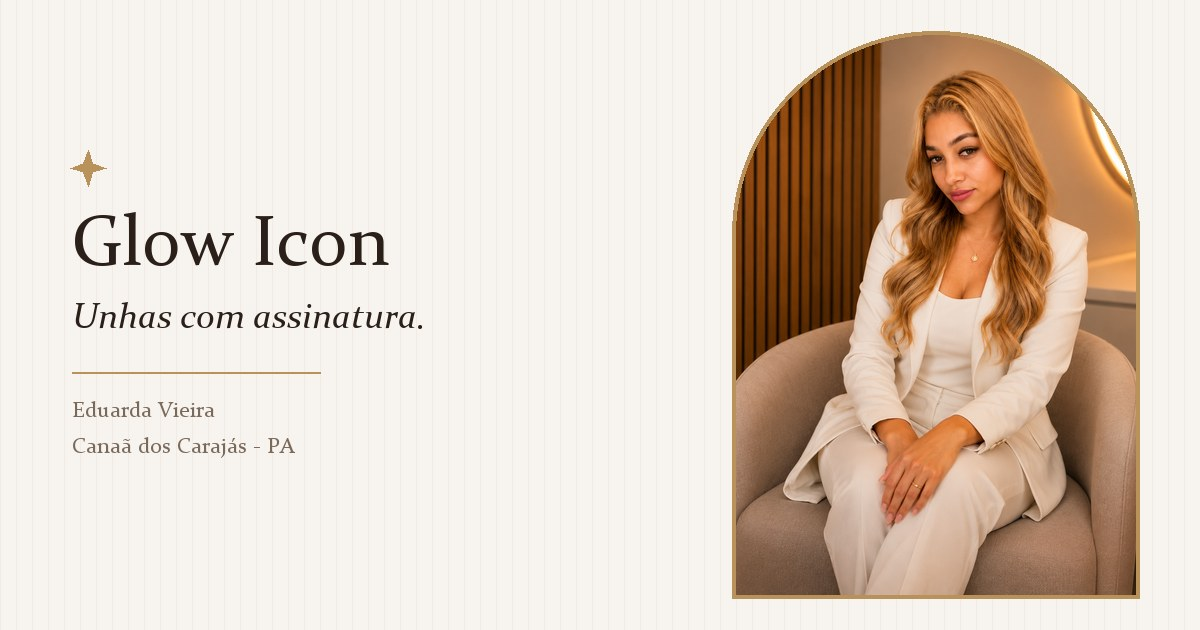
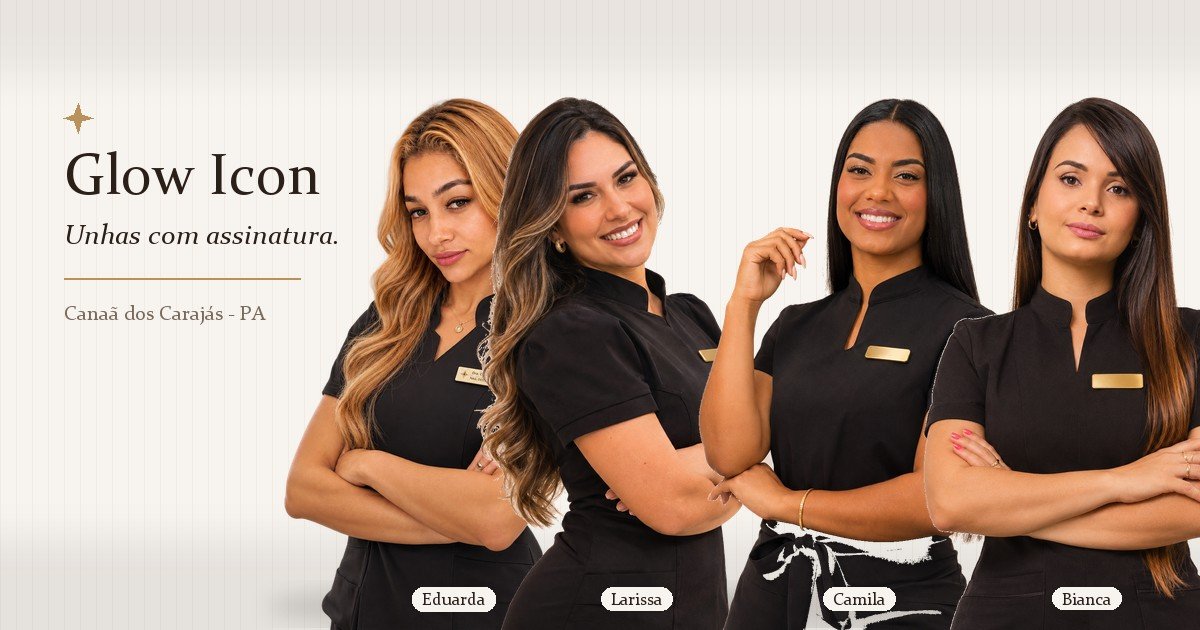
Trocar a prévia do link para mostrar as quatro profissionais.

diff --git a/app/layout.tsx b/app/layout.tsx
@@ -44,10 +44,10 @@ export const metadata: Metadata = {
     description: descricao,
     images: [
       {
-        url: "/og.jpg",
+        url: "/og.jpg?v=equipe",
         width: 1200,
         height: 630,
-        alt: "Glow Icon — Eduarda Vieira, unhas com assinatura. Canaã dos Carajás - PA.",
+        alt: "Glow Icon — Eduarda, Larissa, Camila e Bianca. Unhas com assinatura em Canaã dos Carajás - PA.",
         type: "image/jpeg",
       },
     ],
@@ -56,7 +56,7 @@ export const metadata: Metadata = {
     card: "summary_large_image",
     title: "Glow Icon — unhas com assinatura",
     description: descricao,
-    images: ["/og.jpg"],
+    images: ["/og.jpg?v=equipe"],
   },
 };
 

diff --git a/scripts/og.py b/scripts/og.py
@@ -2,10 +2,10 @@
 
 from pathlib import Path
 
-from PIL import Image, ImageDraw, ImageFont
+from PIL import Image, ImageDraw, ImageFilter, ImageFont
 
 ROOT = Path(__file__).resolve().parents[1]
-FOTO = ROOT / "public" / "img" / "eduarda.png"
+EQUIPE = ROOT / "public" / "img" / "equipe"
 OUT = ROOT / "public" / "og.jpg"
 FONTS = Path(r"C:\Windows\Fonts")
 
@@ -16,7 +16,12 @@ SUAVE = (122, 106, 92)
 DOURADO = (184, 146, 90)
 MADEIRA = (160, 122, 85)
 
-PHOTO_W, PHOTO_H = 400, 560
+FOTOS = [
+    ("eduarda-vieira.png", "Eduarda"),
+    ("larissa-moura.png", "Larissa"),
+    ("camila-rocha.png", "Camila"),
+    ("bianca-alves.png", "Bianca"),
+]
 
 
 def font(name: str, size: int) -> ImageFont.FreeTypeFont:
@@ -34,56 +39,88 @@ def sparkle(draw: ImageDraw.ImageDraw, cx: float, cy: float, r: float) -> None:
     draw.polygon(pts, fill=DOURADO)
 
 
-def crop_cover(src: Image.Image, tw: int, th: int) -> Image.Image:
-    scale = max(tw / src.width, th / src.height)
-    nw, nh = int(src.width * scale), int(src.height * scale)
-    src = src.resize((nw, nh), Image.Resampling.LANCZOS)
-    left = (nw - tw) // 2
-    top = max(0, int((nh - th) * 0.12))
-    return src.crop((left, top, left + tw, top + th))
-
-
-def arch_mask(w: int, h: int) -> Image.Image:
-    mask = Image.new("L", (w, h), 0)
-    d = ImageDraw.Draw(mask)
-    r = w / 2
-    d.pieslice((0, 0, w - 1, w - 1), 180, 360, fill=255)
-    d.rectangle((0, int(r) - 1, w, h), fill=255)
-    return mask
+def recorte(src: Image.Image, altura: int) -> Image.Image:
+    bbox = src.getchannel("A").getbbox()
+    if not bbox:
+        return src
+    pad = 12
+    x0, y0, x1, y1 = bbox
+    src = src.crop(
+        (
+            max(0, x0 - pad),
+            max(0, y0 - pad),
+            min(src.width, x1 + pad),
+            min(src.height, y1 + pad),
+        )
+    )
+    escala = altura / src.height
+    nw, nh = max(1, int(src.width * escala)), altura
+    return src.resize((nw, nh), Image.Resampling.LANCZOS)
 
 
 def main() -> None:
-    canvas = Image.new("RGB", (W, H), FUNDO)
-    overlay = Image.new("RGBA", (W, H), (0, 0, 0, 0))
-    od = ImageDraw.Draw(overlay)
+    canvas = Image.new("RGBA", (W, H), (*FUNDO, 255))
+    listras = Image.new("RGBA", (W, H), (0, 0, 0, 0))
+    ld = ImageDraw.Draw(listras)
     for x in range(0, W, 16):
-        od.line([(x, 0), (x, H)], fill=(*MADEIRA, 16), width=1)
-    canvas = Image.alpha_composite(canvas.convert("RGBA"), overlay).convert("RGB")
+        ld.line([(x, 0), (x, H)], fill=(*MADEIRA, 16), width=1)
+    canvas = Image.alpha_composite(canvas, listras)
+
+    vinheta = Image.new("RGBA", (W, H), (0, 0, 0, 0))
+    vd = ImageDraw.Draw(vinheta)
+    vd.rectangle((0, 0, W, 70), fill=(42, 32, 25, 18))
+    vd.rectangle((0, H - 90, W, H), fill=(42, 32, 25, 22))
+    canvas = Image.alpha_composite(canvas, vinheta.filter(ImageFilter.GaussianBlur(18)))
+
+    pessoas: list[tuple[Image.Image, str]] = []
+    for arquivo, nome in FOTOS:
+        im = Image.open(EQUIPE / arquivo).convert("RGBA")
+        pessoas.append((recorte(im, 560), nome))
+
+    faixa = 900
+    x0 = 268
+    n = len(pessoas)
+    passo = faixa / n
+    bases: list[int] = []
+    for i, (foto, _) in enumerate(pessoas):
+        x = int(x0 + i * passo - 24)
+        y = H - foto.height + 22
+        bases.append(x + foto.width // 2)
+        sombra = Image.new("RGBA", (foto.width, 48), (0, 0, 0, 0))
+        sd = ImageDraw.Draw(sombra)
+        sd.ellipse((24, 8, foto.width - 24, 44), fill=(42, 32, 25, 42))
+        sombra = sombra.filter(ImageFilter.GaussianBlur(10))
+        canvas.alpha_composite(sombra, (x, H - 50))
+        canvas.alpha_composite(foto, (x, y))
+
     draw = ImageDraw.Draw(canvas)
+    sparkle(draw, 78, 118, 15)
 
-    foto = crop_cover(Image.open(FOTO).convert("RGB"), PHOTO_W, PHOTO_H)
-    mask = arch_mask(PHOTO_W, PHOTO_H)
-    px, py = W - PHOTO_W - 64, (H - PHOTO_H) // 2
+    display = font("constan.ttf", 58)
+    italic = font("constani.ttf", 28)
+    small = font("constan.ttf", 20)
+    mini = font("constan.ttf", 17)
 
-    frame_mask = arch_mask(PHOTO_W + 8, PHOTO_H + 8)
-    gold = Image.new("RGB", (PHOTO_W + 8, PHOTO_H + 8), DOURADO)
-    canvas.paste(gold, (px - 4, py - 4), frame_mask)
-    canvas.paste(foto, (px, py), mask)
+    draw.text((64, 150), "Glow Icon", font=display, fill=TINTA)
+    draw.text((64, 222), "Unhas com assinatura.", font=italic, fill=TINTA)
+    draw.line((64, 278, 300, 278), fill=DOURADO, width=2)
+    draw.text((64, 304), "Canaã dos Carajás - PA", font=small, fill=SUAVE)
 
-    sparkle(draw, 88, 168, 18)
-
-    display = font("constan.ttf", 72)
-    italic = font("constani.ttf", 36)
-    small = font("constan.ttf", 22)
-
-    draw.text((72, 210), "Glow Icon", font=display, fill=TINTA)
-    draw.text((72, 300), "Unhas com assinatura.", font=italic, fill=TINTA)
-    draw.line((72, 372, 320, 372), fill=DOURADO, width=2)
-    draw.text((72, 400), "Eduarda Vieira", font=small, fill=SUAVE)
-    draw.text((72, 436), "Canaã dos Carajás - PA", font=small, fill=SUAVE)
+    for cx, (_, nome) in zip(bases, pessoas):
+        caixa = draw.textbbox((0, 0), nome, font=mini)
+        tw = caixa[2] - caixa[0]
+        th = caixa[3] - caixa[1]
+        nx = int(cx - tw / 2)
+        ny = H - 38
+        draw.rounded_rectangle(
+            (nx - 10, ny - 5, nx + tw + 10, ny + th + 5),
+            radius=11,
+            fill=FUNDO,
+        )
+        draw.text((nx, ny), nome, font=mini, fill=TINTA)
 
     OUT.parent.mkdir(exist_ok=True)
-    canvas.convert("RGB").save(OUT, "JPEG", quality=88, optimize=True, progressive=True)
+    canvas.convert("RGB").save(OUT, "JPEG", quality=90, optimize=True, progressive=True)
     print(f"wrote {OUT} ({OUT.stat().st_size // 1024} KB)")
 
 
